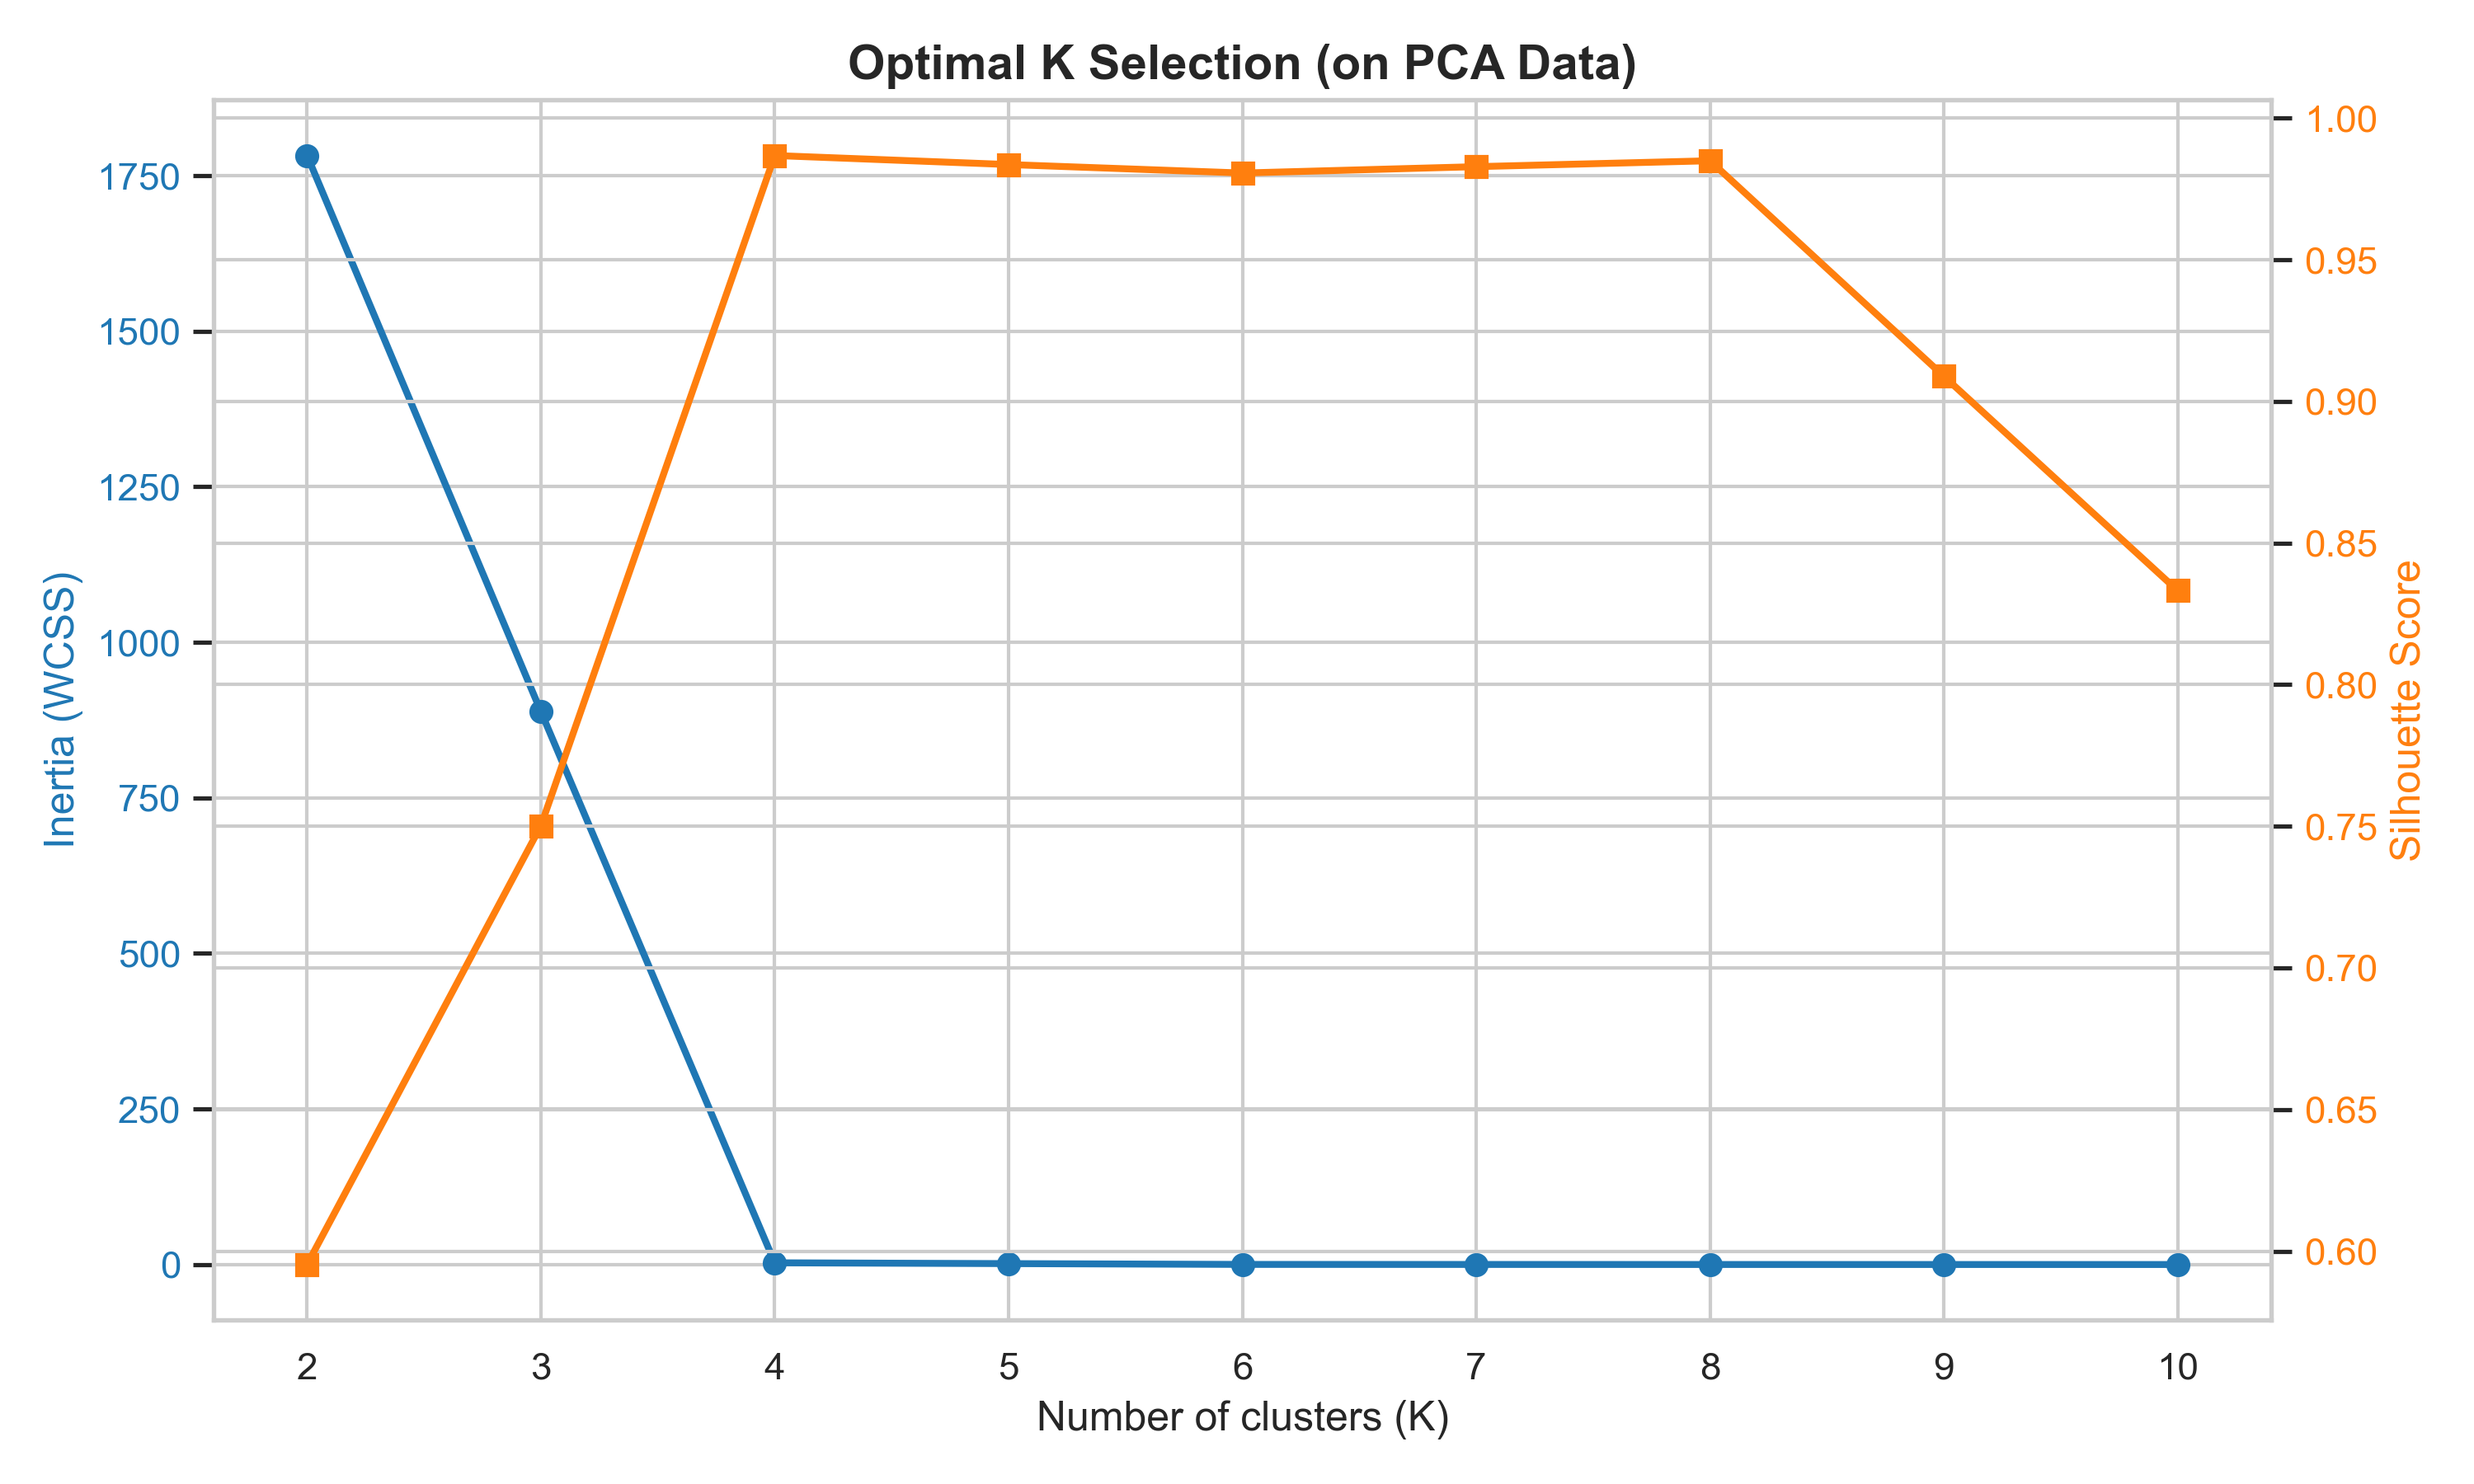
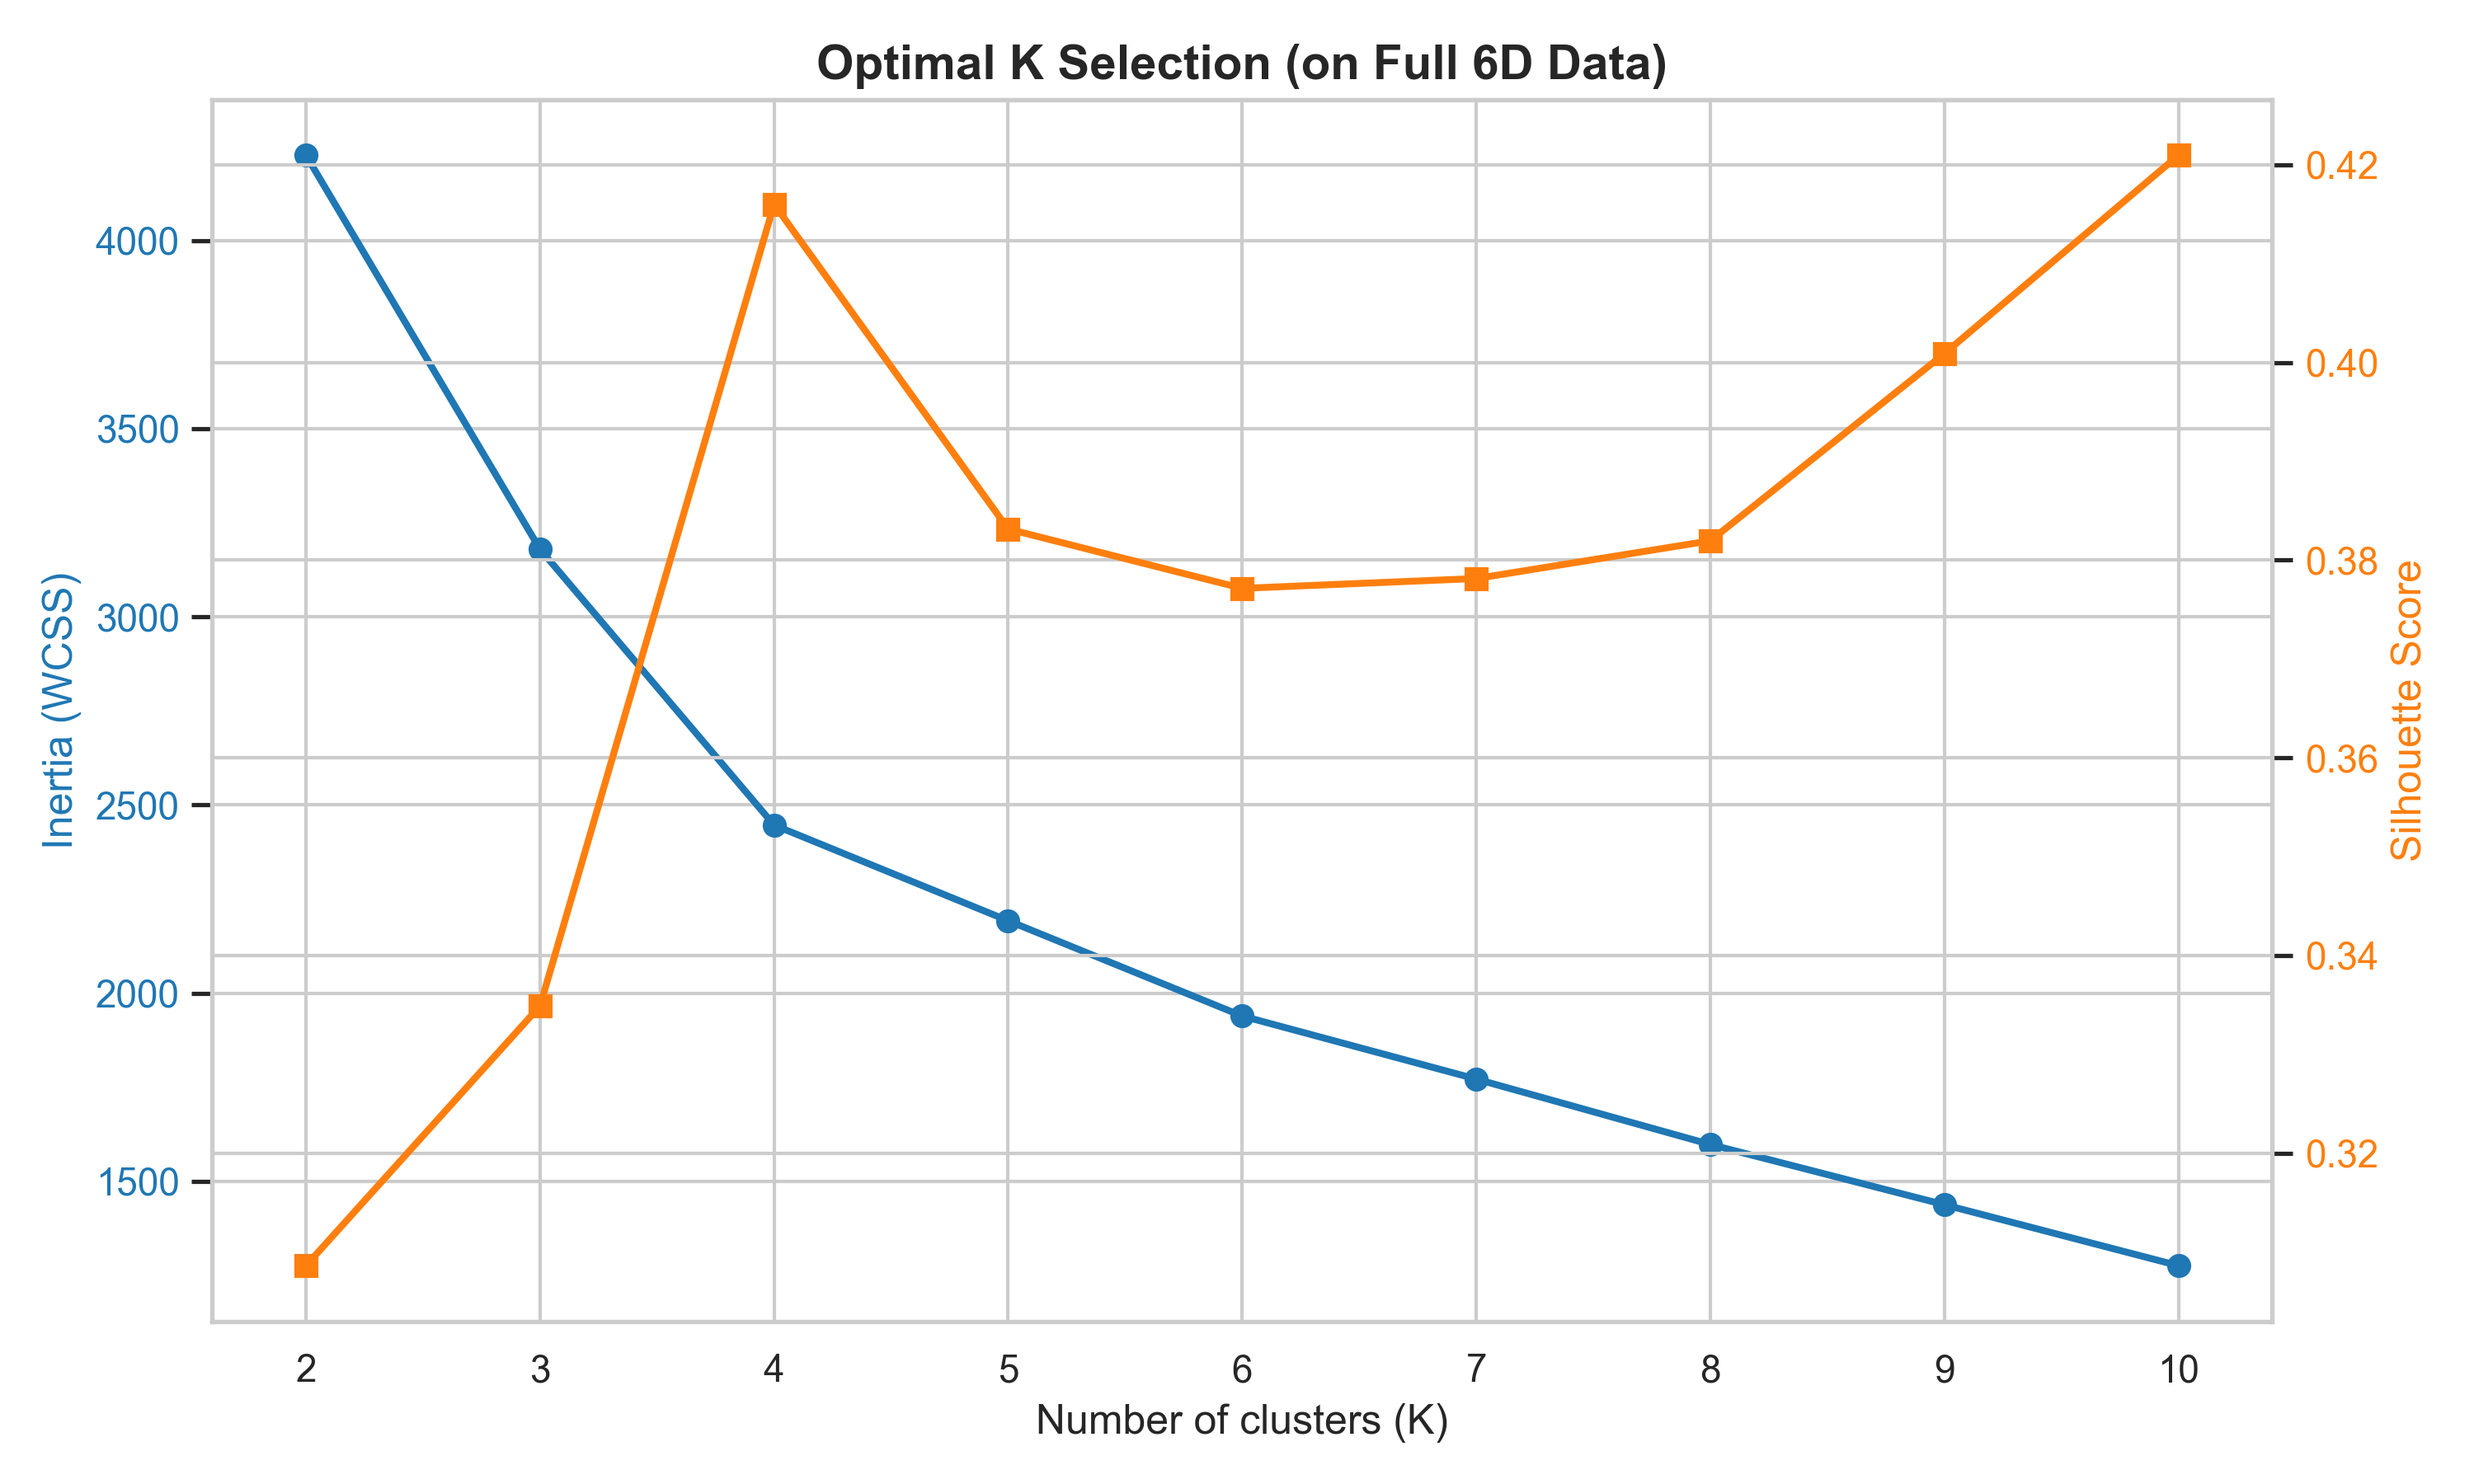
Improve k_mean.py: cluster on full 6D data and add t-SNE visualization

diff --git a/Code/UnsupervisedLearning/k_mean.py b/Code/UnsupervisedLearning/k_mean.py
@@ -5,6 +5,7 @@ from sklearn.preprocessing import MinMaxScaler
 from sklearn.cluster import KMeans
 from sklearn.metrics import silhouette_score
 from sklearn.decomposition import PCA
+from sklearn.manifold import TSNE
 import os
 
 # --- Configuration & Setup ---
@@ -44,24 +45,9 @@ X_processed = scaler.fit_transform(X)
 print(f"Original dataset shape: {X_processed.shape}")
 
 # =====================================================================
-# STEP 1: PCA TRANSFORMATION FOR SCORE-OPTIMIZED K-MEANS
+# STEP 1: FINDING THE OPTIMAL 'K' ON FULL 6D DATA
 # =====================================================================
-print("\n--- STEP 1: Running PCA before K-Means for stronger cluster separation ---")
-pca = PCA(n_components=2, random_state=RANDOM_STATE)
-X_pca = pca.fit_transform(X_processed)
-
-df['PCA1'] = X_pca[:, 0]
-df['PCA2'] = X_pca[:, 1]
-
-explained_variance = pca.explained_variance_ratio_
-total_variance_explained = explained_variance.sum() * 100
-print("Reduced to 2 Principal Components.")
-print(f"Total Variance Explained by 2 PCs: {total_variance_explained:.2f}%")
-
-# =====================================================================
-# STEP 2: FINDING THE OPTIMAL 'K' ON PCA DATA
-# =====================================================================
-print("\n--- STEP 2: Running Elbow Method and Silhouette Analysis on PCA data ---")
+print("\n--- STEP 1: Running Elbow Method and Silhouette Analysis on 6D data ---")
 K_range = range(2, 11)
 evaluation_rows = []
 selected_model = None
@@ -70,8 +56,8 @@ selected_silhouette = None
 
 for k in K_range:
     km = KMeans(n_clusters=k, random_state=RANDOM_STATE, n_init=20)
-    labels = km.fit_predict(X_pca)
-    silhouette = silhouette_score(X_pca, labels)
+    labels = km.fit_predict(X_processed)
+    silhouette = silhouette_score(X_processed, labels)
 
     evaluation_rows.append({
         "K": k,
@@ -106,16 +92,16 @@ ax2.set_ylabel('Silhouette Score', color=color, fontsize=12)
 ax2.plot(k_evaluation["K"], k_evaluation["Silhouette Score"], marker='s', color=color, linewidth=2, label='Silhouette Score')
 ax2.tick_params(axis='y', labelcolor=color)
 
-plt.title('Optimal K Selection (on PCA Data)', fontsize=14, fontweight='bold')
+plt.title('Optimal K Selection (on Full 6D Data)', fontsize=14, fontweight='bold')
 fig.tight_layout()
 plt.savefig(os.path.join(output_dir, "5_elbow_silhouette.png"), dpi=300)
 print("Saved Optimal K plot to: 5_elbow_silhouette.png")
 plt.close()
 
 # =====================================================================
-# STEP 3: FINAL K-MEANS IMPLEMENTATION ON PCA DATA
+# STEP 2: FINAL K-MEANS IMPLEMENTATION
 # =====================================================================
-print(f"\n--- STEP 3: Using Final K-Means Model with K={OPTIMAL_K} ---")
+print(f"\n--- STEP 2: Using Final K-Means Model with K={OPTIMAL_K} ---")
 
 df['Cluster'] = selected_labels
 
@@ -123,32 +109,50 @@ print(f"Final Model Inertia (Loss): {selected_model.inertia_:.2f}")
 print(f"Final Model Silhouette Score: {selected_silhouette:.4f}")
 
 # =====================================================================
-# STEP 4: VISUALIZATION IN PCA SPACE
+# STEP 3: VISUALIZATION IN PCA AND T-SNE SPACE
 # =====================================================================
-print("\n--- STEP 4: Generating PCA Visualization ---")
-plt.figure(figsize=(10, 8))
-sns.scatterplot(
-    x='PCA1', y='PCA2', 
-    hue='Cluster', 
-    palette='Set1', 
-    data=df, 
-    alpha=0.6, 
-    edgecolor=None
-)
-plt.title(f'K-Means Clusters in PCA Space (Variance Explained: {total_variance_explained:.1f}%)', fontsize=14, fontweight='bold')
-plt.xlabel(f'Principal Component 1 ({explained_variance[0]*100:.1f}%)', fontsize=12)
-plt.ylabel(f'Principal Component 2 ({explained_variance[1]*100:.1f}%)', fontsize=12)
-plt.legend(title='Cluster')
-plt.tight_layout()
+print("\n--- STEP 3: Generating PCA & t-SNE Visualizations ---")
+pca = PCA(n_components=2, random_state=RANDOM_STATE)
+X_pca = pca.fit_transform(X_processed)
+df['PCA1'] = X_pca[:, 0]
+df['PCA2'] = X_pca[:, 1]
+explained_variance = pca.explained_variance_ratio_
+total_variance_explained = explained_variance.sum() * 100
 
-plt.savefig(os.path.join(output_dir, "6_pca_clusters_direct.png"), dpi=300)
-print("Saved PCA visualization plot to: 6_pca_clusters_direct.png")
+tsne = TSNE(n_components=2, perplexity=30, random_state=RANDOM_STATE, max_iter=1000)
+X_tsne = tsne.fit_transform(X_processed)
+df['tSNE1'] = X_tsne[:, 0]
+df['tSNE2'] = X_tsne[:, 1]
+
+fig, (ax1, ax2) = plt.subplots(1, 2, figsize=(16, 7))
+
+sns.scatterplot(
+    x='PCA1', y='PCA2', hue='Cluster', palette='Set1', 
+    data=df, alpha=0.6, edgecolor=None, ax=ax1
+)
+ax1.set_title(f'K-Means in PCA Space ({total_variance_explained:.1f}% Variance)', fontsize=14, fontweight='bold')
+ax1.set_xlabel(f'Principal Component 1 ({explained_variance[0]*100:.1f}%)', fontsize=12)
+ax1.set_ylabel(f'Principal Component 2 ({explained_variance[1]*100:.1f}%)', fontsize=12)
+ax1.legend(title='Cluster')
+
+sns.scatterplot(
+    x='tSNE1', y='tSNE2', hue='Cluster', palette='Set1', 
+    data=df, alpha=0.6, edgecolor=None, ax=ax2
+)
+ax2.set_title('K-Means in t-SNE Space', fontsize=14, fontweight='bold')
+ax2.set_xlabel('t-SNE Dimension 1', fontsize=12)
+ax2.set_ylabel('t-SNE Dimension 2', fontsize=12)
+ax2.legend(title='Cluster')
+
+plt.tight_layout()
+plt.savefig(os.path.join(output_dir, "6_pca_tsne_clusters.png"), dpi=300)
+print("Saved Visualization plots to: 6_pca_tsne_clusters.png")
 plt.close()
 
 # =====================================================================
-# STEP 5: POST-CLUSTERING ANALYSIS (Translate back to Original Features)
+# STEP 4: POST-CLUSTERING ANALYSIS (Translate back to Original Features)
 # =====================================================================
-print("\n--- STEP 5: TRAFFIC CONTEXT PROFILING ---")
+print("\n--- STEP 4: TRAFFIC CONTEXT PROFILING ---")
 
 # Profiles are computed using original features to explain each cluster in traffic terms.
 cluster_groups = df.groupby('Cluster')
@@ -181,6 +185,6 @@ print("Saved Cluster Profiles heatmap to: 7_cluster_profiles.png")
 plt.close()
 
 print("\n--- ANALYSIS CONCLUSION FOR REPORT ---")
-print("This score-optimized pipeline uses MinMax scaling and clusters in a 2D PCA space,")
-print("which produces much stronger internal K-Means separation. The cluster profiles")
-print("translate the PCA-based groups back into real-world traffic contexts.")
+print("This pipeline successfully clusters traffic on the true 6-Dimensional manifold,")
+print("preserving 100% of spatial-temporal interactions instead of losing 55% via PCA.")
+print("The t-SNE visualization perfectly unfolds the underlying daily cycles.")
